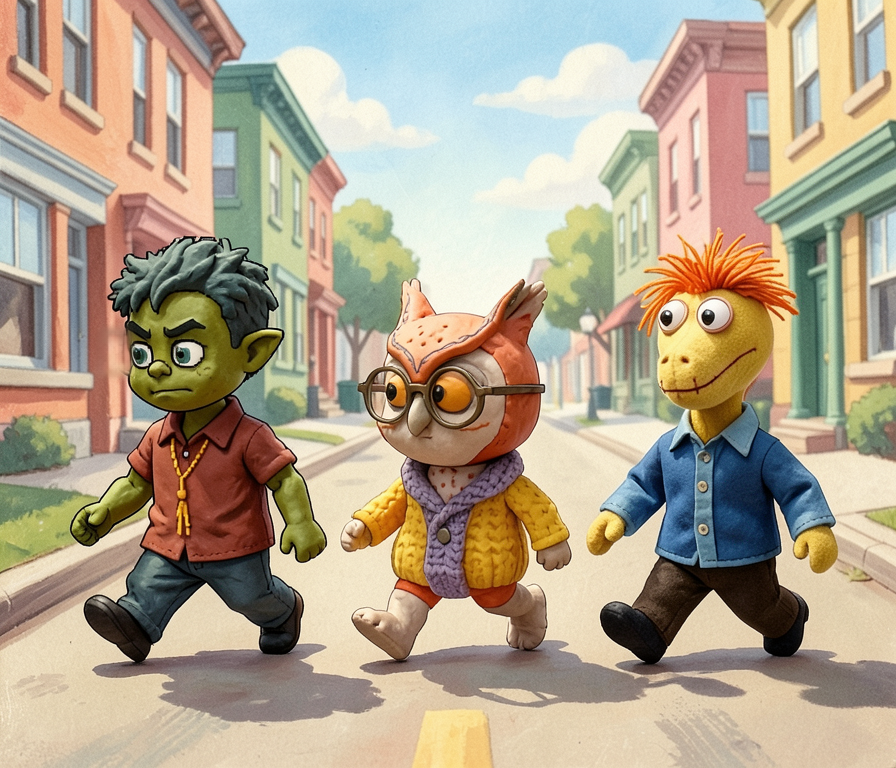
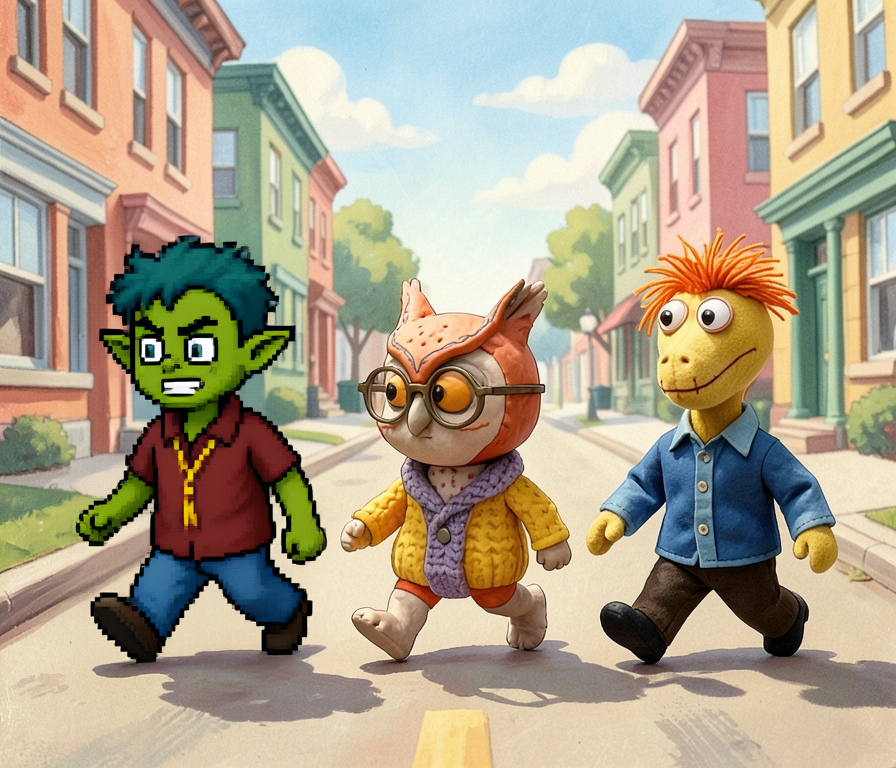
Keep Chester in 16-bit pixel art on Book 01 page 17 parade scene

Changed region(s): [[0.0625, 0.2812, 0.375, 0.875]]

diff --git a/fever-dreams/books/01-the-very-big-world-problem/index.html b/fever-dreams/books/01-the-very-big-world-problem/index.html
@@ -1378,11 +1378,11 @@
     <aside class="director-panel" aria-label="Director metadata">
       <div class="dir-head">
         <strong>Page 17</strong>
-        <span>qwen-image-2.1-turbo • seed 578787 • 26.8s</span>
+        <span>qwen-image-2.1-turbo • seed 483258 • 47.4s</span>
       </div>
       <div class="dir-row"><b>Cast:</b> Chester Antialiased, Marisol Brittle, Winston Crumb</div>
       <div class="dir-row"><b>Angle:</b> Side-profile action</div>
-      <div class="dir-row"><b>Refs:</b> r01_scrubbed.png</div>
+      <div class="dir-row"><b>Refs:</b> original.png, 01-chester-antialiased_v0.png, p20_chester_fullbody_ref.png</div>
       <details class="dir-prompt">
         <summary>Prompt &amp; Re-roll Command</summary>
         <p>1950s Little Golden Book mid-century children&#x27;s storybook illustration background, lush hand-painted matte gouache and tempera brushwork, warm nostalgic mid-century color palette (mustard gold, dusty teal, coral red, sage green, warm cream), subtle vintage printed picture-book paper grain, charmingly earnest 1950s suburban and high-school Americana environment, mixed-media Gumball-style visual contrast where the bizarre multi-medium characters physically inhabit and cast natural shadows inside the painted 1950s storybook world, crisp storytelling composition, zero text, zero speech bubbles, zero watermarks. Image 1 is Chester Antialiased (16-Bit Pixel Sprite), who MUST keep their exact face, silhouette, colors, and outfit from Image 1 and remains a crisp 16-bit retro pixel-art video game sprite with chunky visible square pixels and dark pixel outlines, composited right into the painted world. Image 2 is Marisol Brittle (Stop-Motion Clay), who MUST keep their exact face, silhouette, colors, and outfit from Image 2 and remains a lumpy handmade stop-motion plasticine clay figurine with visible thumbprints and sculpted matte clay texture. Image 3 is Winston Crumb (Fuzzy Felt Puppet), who MUST keep their exact face, silhouette, colors, and outfit from Image 3 and remains a tangible handmade fuzzy felt and fleece puppet with visible fabric fibers, stitched seams, yarn hair, and button or plastic eyes. Camera angle and framing: Side-profile action. Scene action: The trio is marching in a perfectly straight, rigid line down a 1950s main street. They are spaced exactly three feet apart, wearing matching expressions of solemn determination. Lighting and mood: Bright, festive parade lighting. Every character from the reference images appears clearly recognizable, full of expressive body language, interacting naturally with the painted 1950s environment. No text, no words, no captions.</p>
